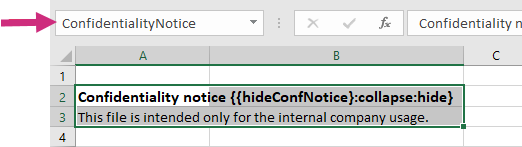
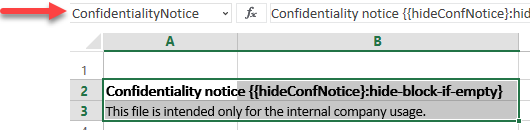
corrected Conditionally clear cells in XLSX templates

diff --git a/source/document-generation/xlsx/conditionally-clear-cells.rst b/source/document-generation/xlsx/conditionally-clear-cells.rst
@@ -5,7 +5,7 @@ You can use `hide-block-if-empty formatter <../common-docx-xlsx/formatters.html#
 
 First of all, review the `conditionally clear cells demo <./demos.html#clear-cells>`_. There is a template for the case that we describe here.
 
-The formatter checks if a value for current tag is empty or :code:`true`, then clears the content of cells.
+The formatter checks if a value for current tag is null, empty or empty array, then clears the content of cells.
 
 .. contents:: Two cases when you can use it:
     :local:
@@ -31,7 +31,7 @@ We want to clear content of all cells with information about contacts if the :co
 .. image:: ../../_static/img/document-generation/xlsx-clear-single-cell-template.png
   :alt: Clear single cell template
 
-As you can see, there are tags with :code:`hide-block-if-empty` formatter inside each that we want to clear. You may notice that we also use :code:`hide` formatter with :code:`hide-block-if-empty` formatter together. It hides the value current tag.
+As you can see, there are tags with :code:`hide-block-if-empty` formatter inside each that we want to clear.
 
 The generated document will look like this:
 
